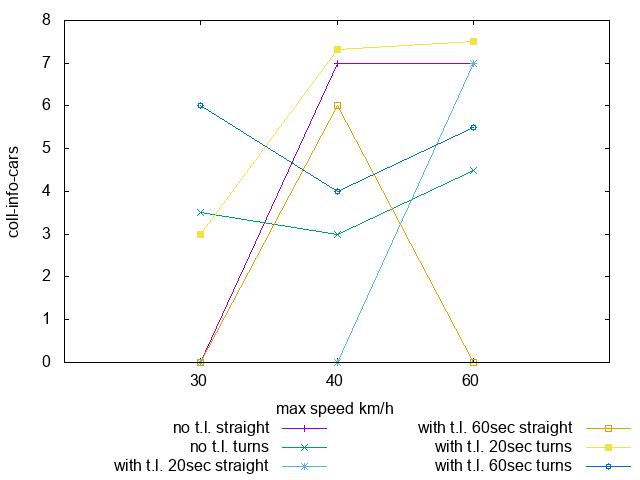
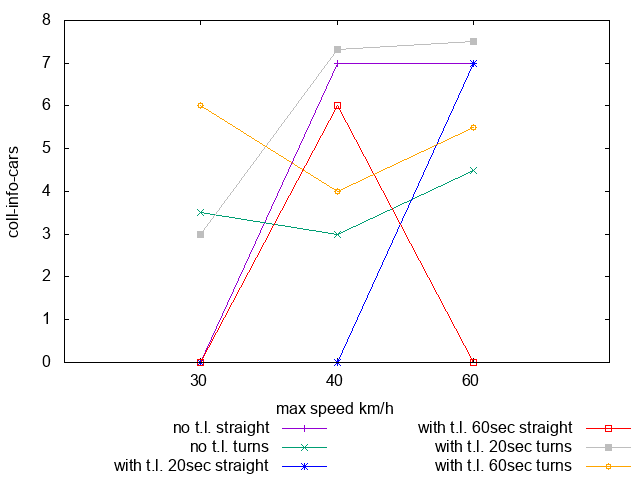
improved graphs

diff --git a/TestResults/compute_avg.py b/TestResults/compute_avg.py
@@ -173,19 +173,19 @@ def make_graph_comp(attr):
 	cmds.append('set key below')
 	cmds.append('plot "%s" index 0 w linespoints title "no t.l. straight",\
 	 "%s" index 1 w linespoints title "no t.l. turns",\
-	 "%s" index 2 w linespoints title "with t.l. 20sec straight",\
-	 "%s" index 3 w linespoints title "with t.l. 60sec straight",\
-	 "%s" index 4 w linespoints title "with t.l. 20sec turns",\
-	 "%s" index 5 w linespoints title "with t.l. 60sec turns"\
+	 "%s" index 2 w linespoints lt rgb "blue" title "with t.l. 20sec straight",\
+	 "%s" index 3 w linespoints lt rgb "red" title "with t.l. 60sec straight",\
+	 "%s" index 4 w linespoints lt rgb "gray" title "with t.l. 20sec turns",\
+	 "%s" index 5 w linespoints lt rgb "orange" title "with t.l. 60sec turns"\
 	 '%(datafn, datafn, datafn, datafn, datafn, datafn))
 	cmds.append('quit')
 	print >> f, '\n'.join(cmds)
 	f.close()
 	p.wait()
-	# try:
-	# 	os.unlink(datafn)
-	# except:
-	# 	pass
+	try:
+		os.unlink(datafn)
+	except:
+		pass
 	
 
 def clean_data(dictionary):
